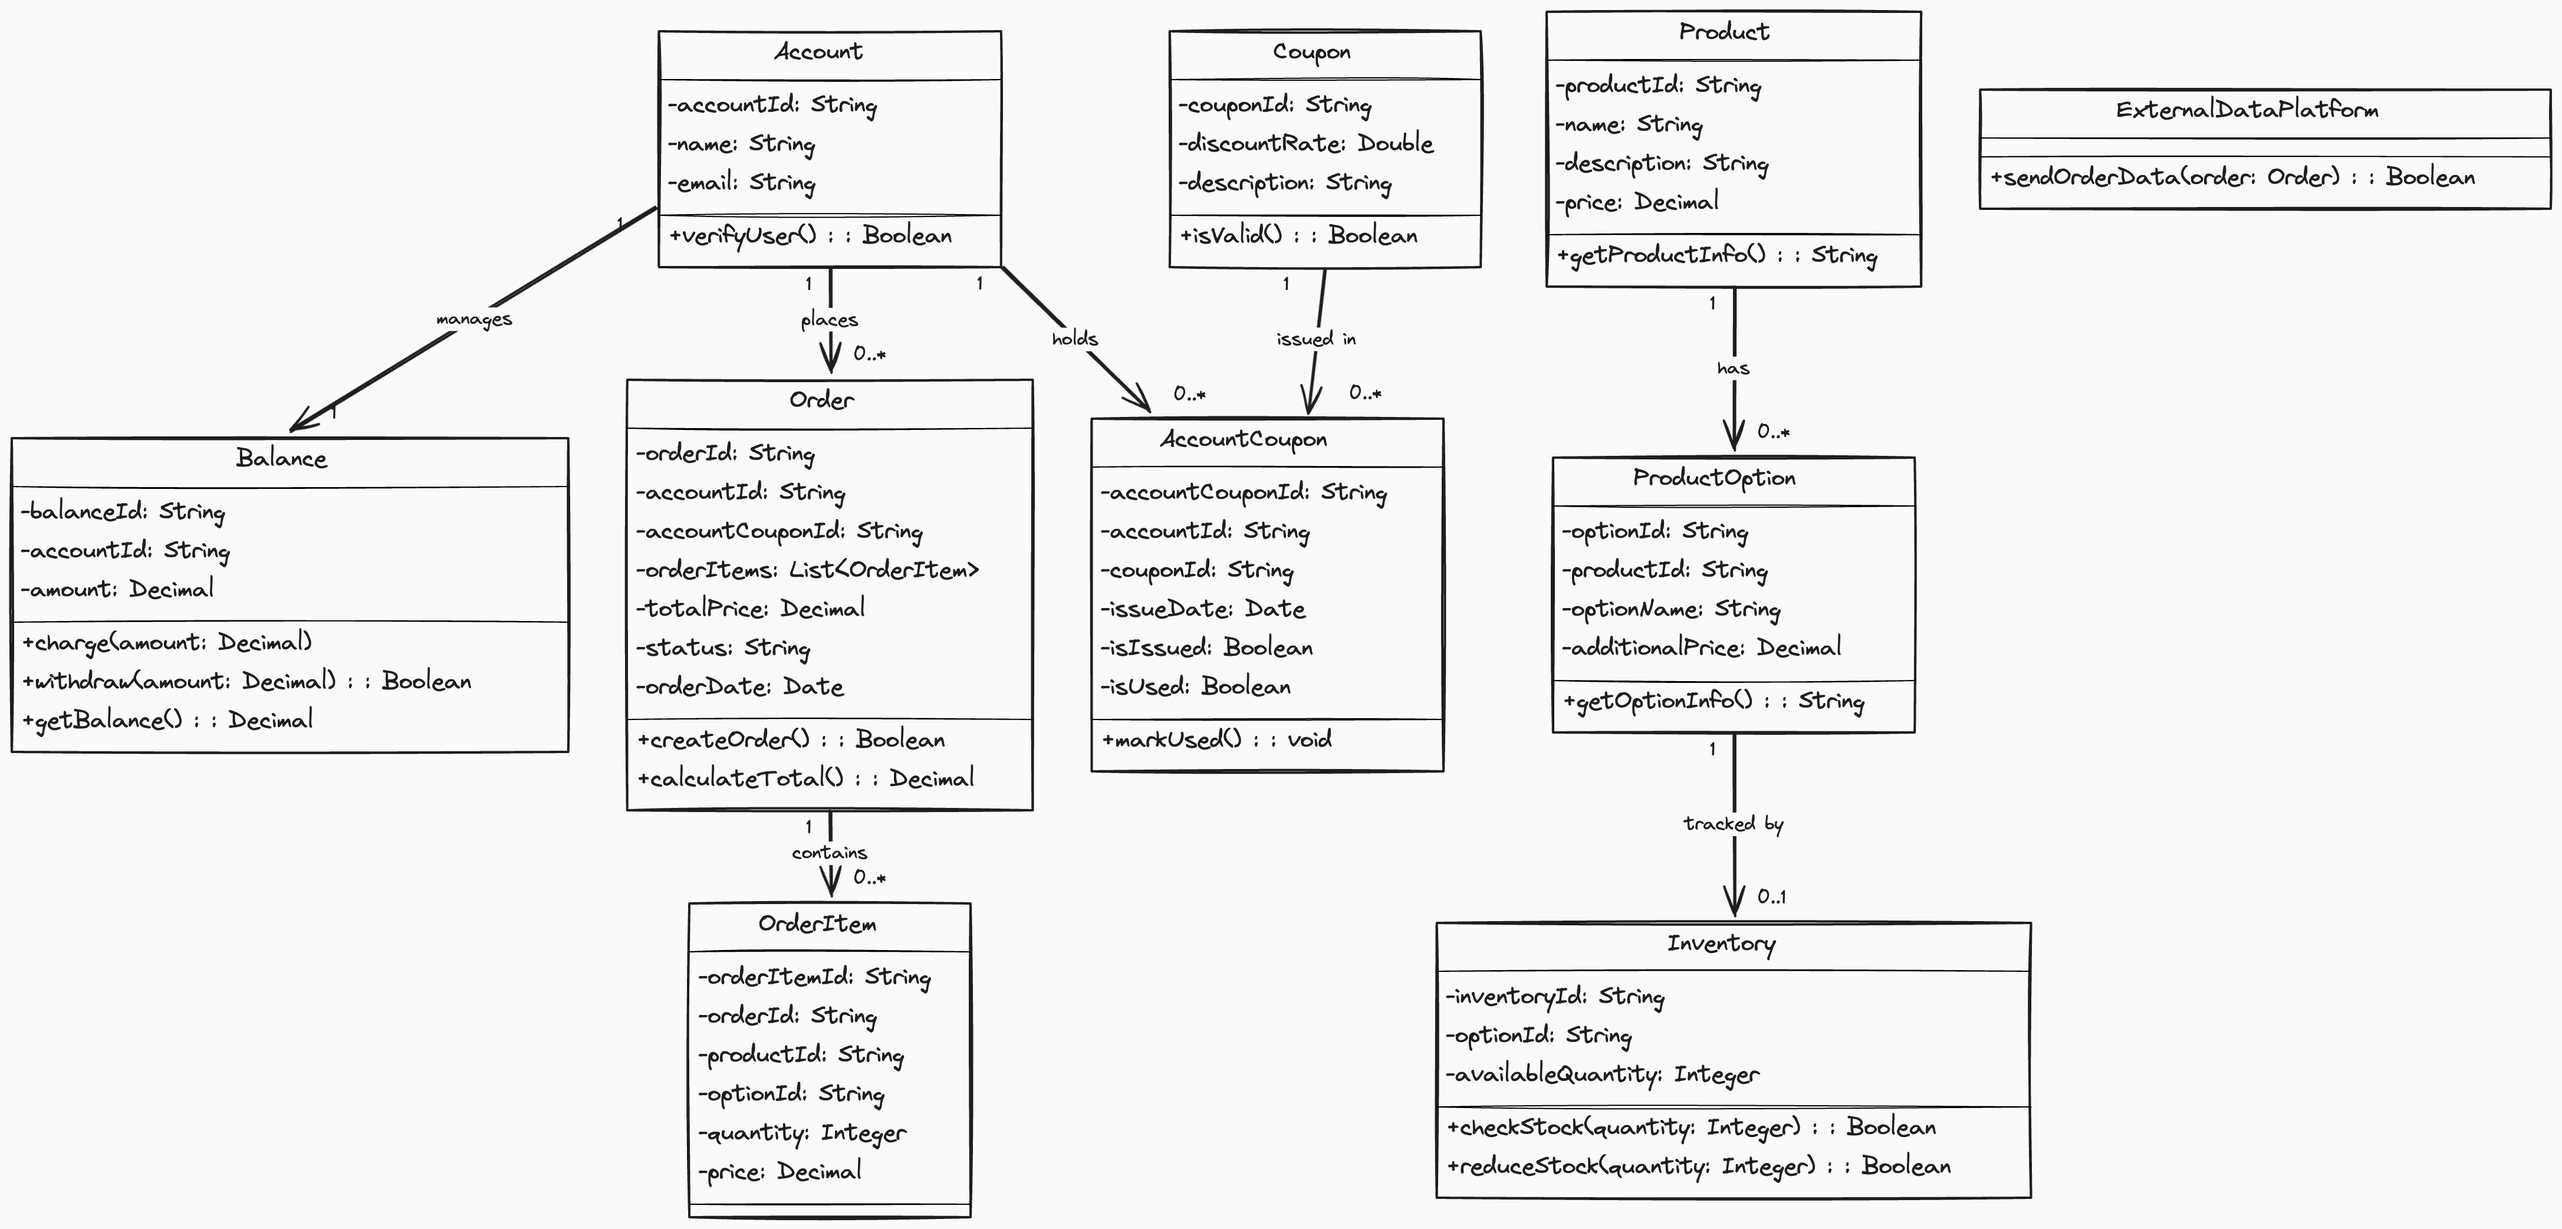
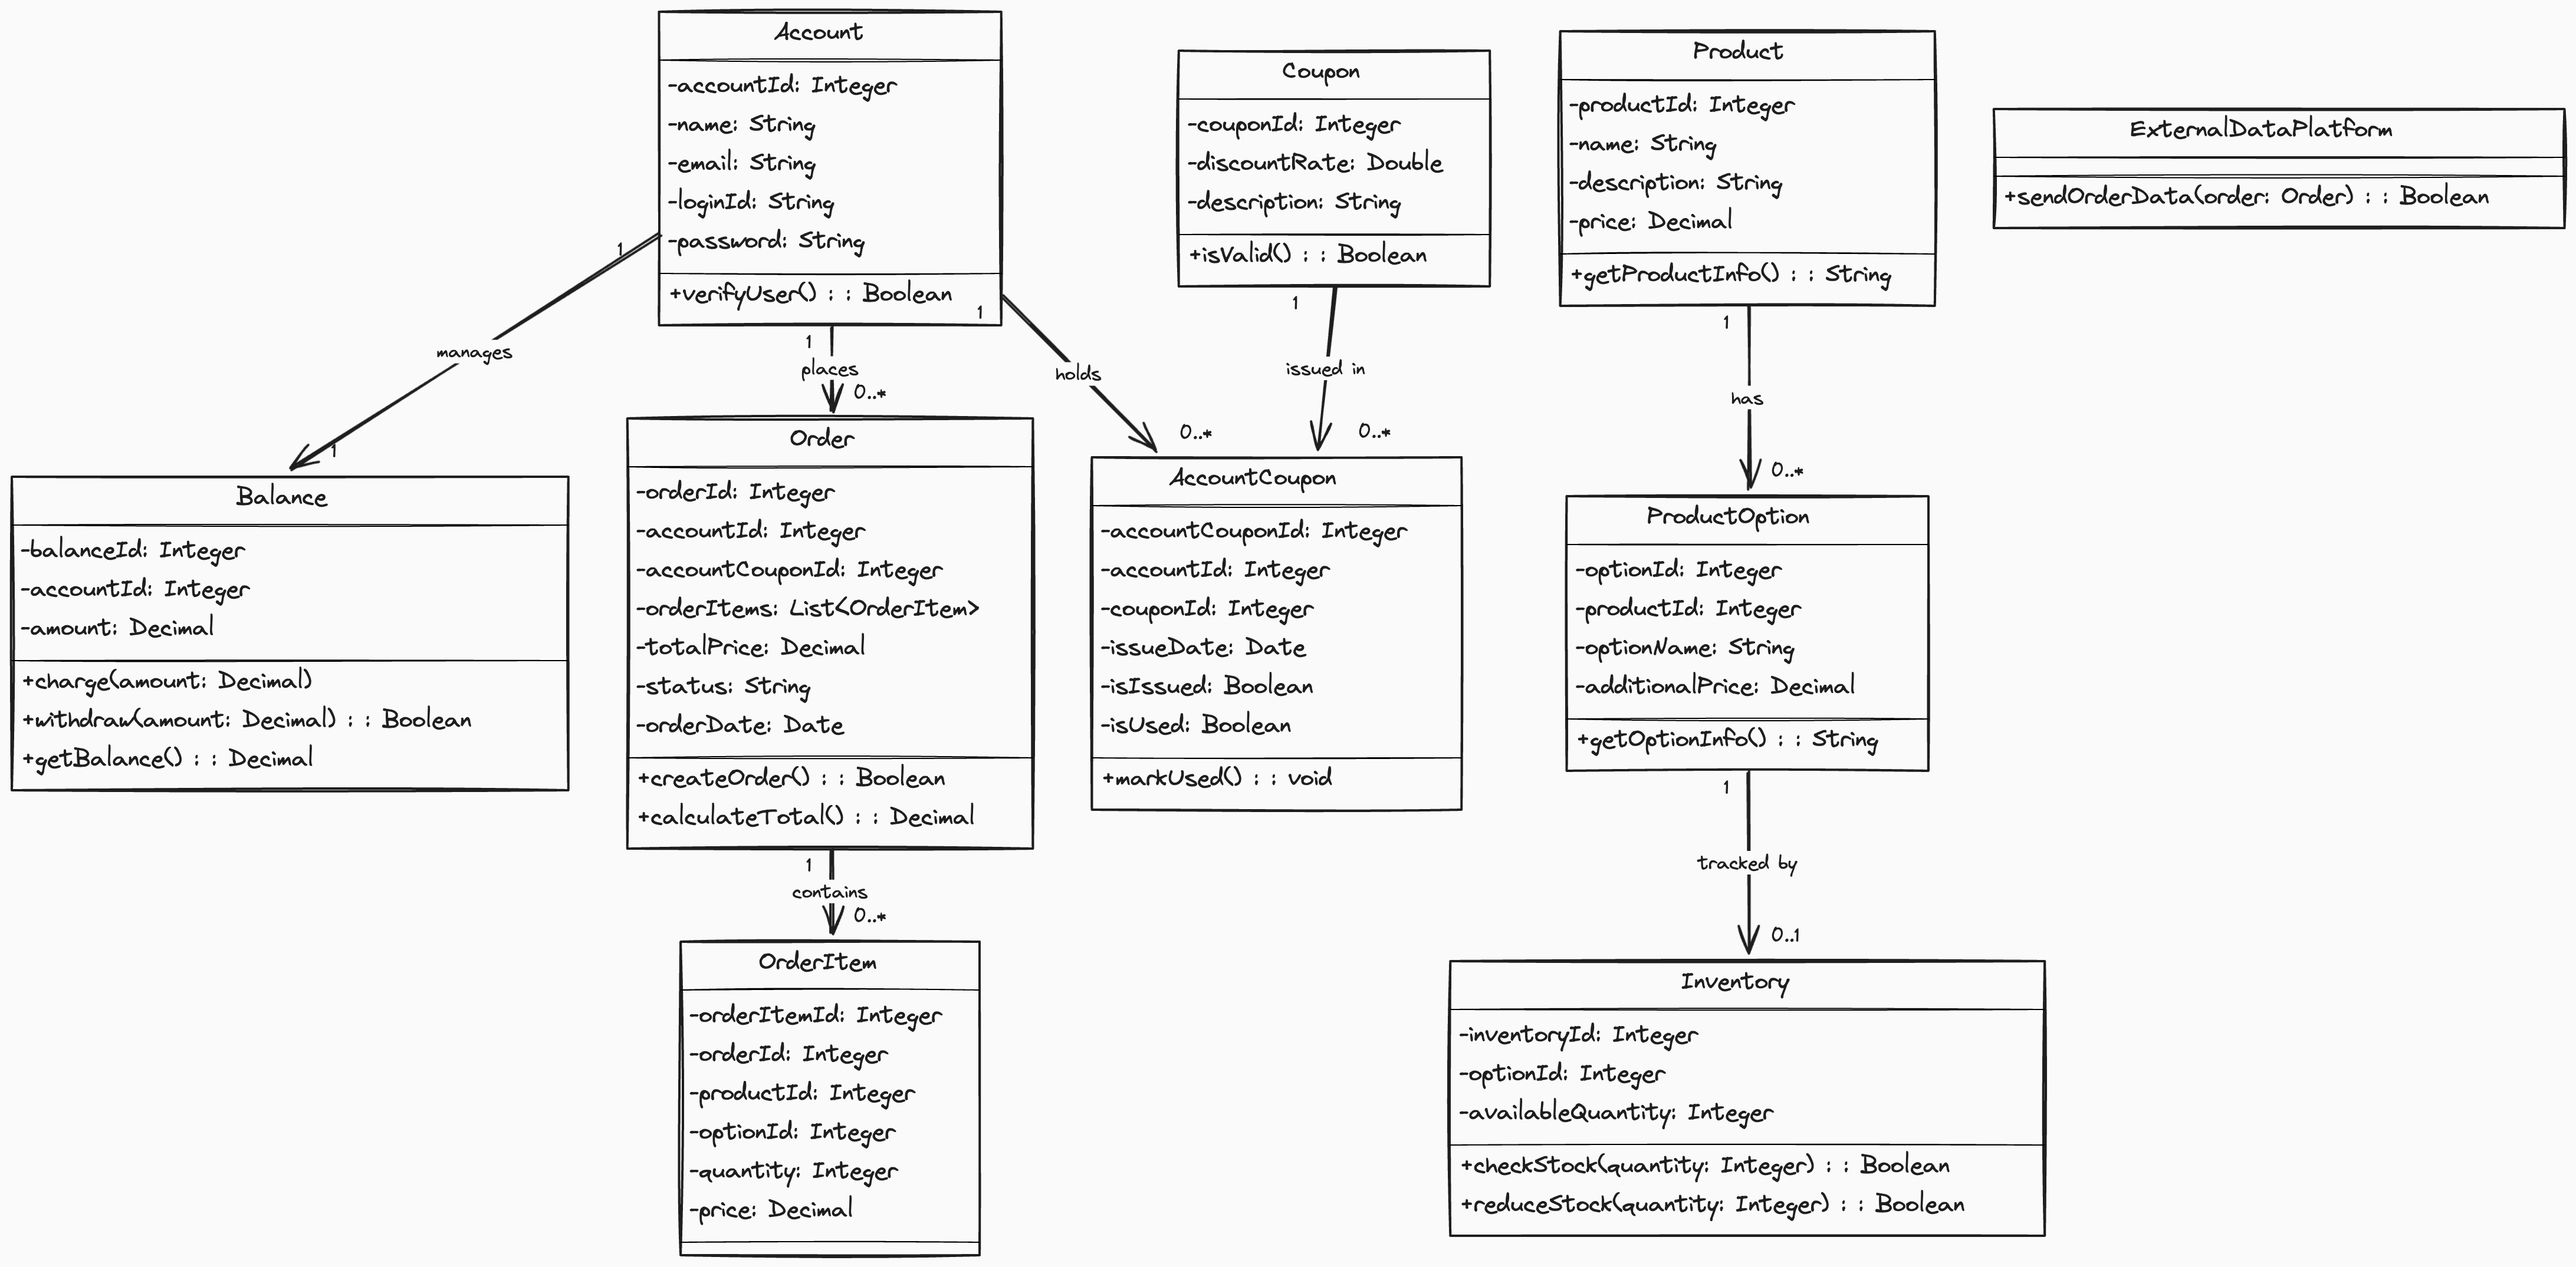
Id String To Integer (#11)

diff --git a/src/test/java/kr/hhplus/be/server/balance/BalanceServiceUnitTest.kt b/src/test/java/kr/hhplus/be/server/balance/BalanceServiceUnitTest.kt
@@ -25,8 +25,8 @@ class BalanceServiceUnitTest {
     @Test
     fun `accountId로 잔액 조회 성공`() {
         // Arrange
-        val accountId = "user123"
-        val balance = Balance(balanceId = "bal1", accountId = accountId, amount = BigDecimal("100.00"))
+        val accountId = 1
+        val balance = Balance(balanceId = 1, accountId = accountId, amount = BigDecimal("100.00"))
         every { balanceRepository.findByAccountId(accountId) } returns balance
 
         // Act
@@ -40,7 +40,7 @@ class BalanceServiceUnitTest {
     @Test
     fun `accountId로 진액 조회 실패`() {
         // Arrange
-        val accountId = "user123"
+        val accountId = 1
         every { balanceRepository.findByAccountId(accountId) } returns null
 
         // Act & Assert
@@ -54,11 +54,11 @@ class BalanceServiceUnitTest {
     @Test
     fun `잔액 충전 시 업데이트된 잔액 반환`() {
         // Arrange
-        val accountId = "user123"
+        val accountId = 1
         val initialAmount = BigDecimal("100.00")
         val chargeAmount = BigDecimal("50.00")
         val expectedAmount = BigDecimal("150.00")
-        val balance = Balance(balanceId = "bal1", accountId = accountId, amount = initialAmount)
+        val balance = Balance(balanceId = 1, accountId = accountId, amount = initialAmount)
 
         every { balanceService.getByAccountId(accountId) } returns balance
         every { balanceRepository.save(any()) } answers { firstArg() }
@@ -75,11 +75,11 @@ class BalanceServiceUnitTest {
     @Test
     fun `출금 시 잔액이 충분하면 정상적으로 차감된다`() {
         // Arrange
-        val accountId = "user123"
+        val accountId = 1
         val initialAmount = BigDecimal("200.00")
         val withdrawAmount = BigDecimal("50.00")
         val expectedAmount = BigDecimal("150.00")
-        val balance = Balance(balanceId = "bal1", accountId = accountId, amount = initialAmount)
+        val balance = Balance(balanceId = 1, accountId = accountId, amount = initialAmount)
 
         every { balanceService.getByAccountId(accountId) } returns balance
         every { balanceRepository.save(any()) } answers { firstArg() }
@@ -96,10 +96,10 @@ class BalanceServiceUnitTest {
     @Test
     fun `출금 시 잔액 부족이면 예외 발생`() {
         // Arrange
-        val accountId = "user123"
+        val accountId = 1
         val initialAmount = BigDecimal("100.00")
         val withdrawAmount = BigDecimal("150.00")
-        val balance = Balance(balanceId = "bal1", accountId = accountId, amount = initialAmount)
+        val balance = Balance(balanceId = 1, accountId = accountId, amount = initialAmount)
 
         every {balanceService.getByAccountId(accountId) } returns balance
 

diff --git a/src/test/java/kr/hhplus/be/server/account/AccountServiceUnitTest.kt b/src/test/java/kr/hhplus/be/server/account/AccountServiceUnitTest.kt
@@ -24,7 +24,7 @@ class AccountServiceUnitTest {
     @Test
     fun `계정이 존재하면 정상 반환한다`() {
         // Arrange
-        val accountId = "user123"
+        val accountId = 1
         val account = Account(accountId = accountId, name = "Test User", email = "test@example.com", loginId = "test", password = "123456")
 
         every { accountRepository.findById(accountId) } returns account
@@ -40,7 +40,7 @@ class AccountServiceUnitTest {
     @Test
     fun `계정을 찾지 못하면 예외를 발생시킨다`() {
         // Arrange
-        val accountId = "user123"
+        val accountId = 1
         every { accountRepository.findById(accountId) } returns null
 
         // Act & Assert
@@ -56,7 +56,7 @@ class AccountServiceUnitTest {
         // Arrange
         val loginId = "test"
         val password = "123456"
-        val account = Account(accountId = "user123", name = "Test User", email = "test@example.com", loginId = loginId, password = password)
+        val account = Account(accountId = 1, name = "Test User", email = "test@example.com", loginId = loginId, password = password)
 
         every { accountRepository.login(loginId, password) } returns account
 

diff --git a/src/main/kotlin/kr/hhplus/be/server/service/balance/BalanceService.kt b/src/main/kotlin/kr/hhplus/be/server/service/balance/BalanceService.kt
@@ -9,19 +9,19 @@ import java.math.BigDecimal
 class BalanceService(
     private val balanceRepository: BalanceRepository
 ) {
-    fun getByAccountId(accountId: String): Balance {
+    fun getByAccountId(accountId: Int): Balance {
         return balanceRepository.findByAccountId(accountId)
             ?: throw IllegalArgumentException("Balance not found for account: $accountId")
     }
 
-    fun charge(accountId: String, amount: BigDecimal): Balance {
+    fun charge(accountId: Int, amount: BigDecimal): Balance {
         val balance = balanceRepository.findByAccountId(accountId)
             ?: throw IllegalArgumentException("Balance not found for account: $accountId")
         balance.amount = balance.amount.add(amount)
         return balanceRepository.save(balance)
     }
 
-    fun withdraw(accountId: String, amount: BigDecimal): Balance {
+    fun withdraw(accountId: Int, amount: BigDecimal): Balance {
         val balance = balanceRepository.findByAccountId(accountId)
             ?: throw IllegalArgumentException("Balance not found for account: $accountId")
         if (balance.amount < amount) {

diff --git a/src/main/kotlin/kr/hhplus/be/server/service/account/AccountService.kt b/src/main/kotlin/kr/hhplus/be/server/service/account/AccountService.kt
@@ -12,7 +12,7 @@ class AccountService(
         return accountRepository.save(account)
     }
 
-    fun getById(accountId: String): Account {
+    fun getById(accountId: Int): Account {
         return accountRepository.findById(accountId)
             ?: throw IllegalArgumentException("Account not found for accountId: $accountId")
     }

diff --git a/src/main/kotlin/kr/hhplus/be/server/repository/account/AccountRepository.kt b/src/main/kotlin/kr/hhplus/be/server/repository/account/AccountRepository.kt
@@ -3,7 +3,7 @@ package kr.hhplus.be.server.repository.account
 import kr.hhplus.be.server.domain.account.Account
 
 interface AccountRepository {
-    fun findById(accountId: String): Account?
+    fun findById(accountId: Int): Account?
     fun login(loginId: String, password: String): Account?
     fun save(account: Account): Account
 }

diff --git a/src/main/kotlin/kr/hhplus/be/server/repository/balance/BalanceRepository.kt b/src/main/kotlin/kr/hhplus/be/server/repository/balance/BalanceRepository.kt
@@ -3,6 +3,6 @@ package kr.hhplus.be.server.repository.balance
 import kr.hhplus.be.server.domain.balance.Balance
 
 interface BalanceRepository {
-    fun findByAccountId(accountId: String): Balance?
+    fun findByAccountId(accountId: Int): Balance?
     fun save(balance: Balance): Balance
 }

diff --git a/src/main/kotlin/kr/hhplus/be/server/domain/balance/Balance.kt b/src/main/kotlin/kr/hhplus/be/server/domain/balance/Balance.kt
@@ -3,7 +3,7 @@ package kr.hhplus.be.server.domain.balance
 import java.math.BigDecimal
 
 data class Balance(
-    val balanceId: String,
-    val accountId: String,
+    val balanceId: Int,
+    val accountId: Int,
     var amount: BigDecimal
 )

diff --git a/src/main/kotlin/kr/hhplus/be/server/domain/account/Account.kt b/src/main/kotlin/kr/hhplus/be/server/domain/account/Account.kt
@@ -1,7 +1,7 @@
 package kr.hhplus.be.server.domain.account
 
 data class Account(
-    val accountId: String,
+    val accountId: Int,
     var name: String,
     var email: String,
     var loginId: String,
